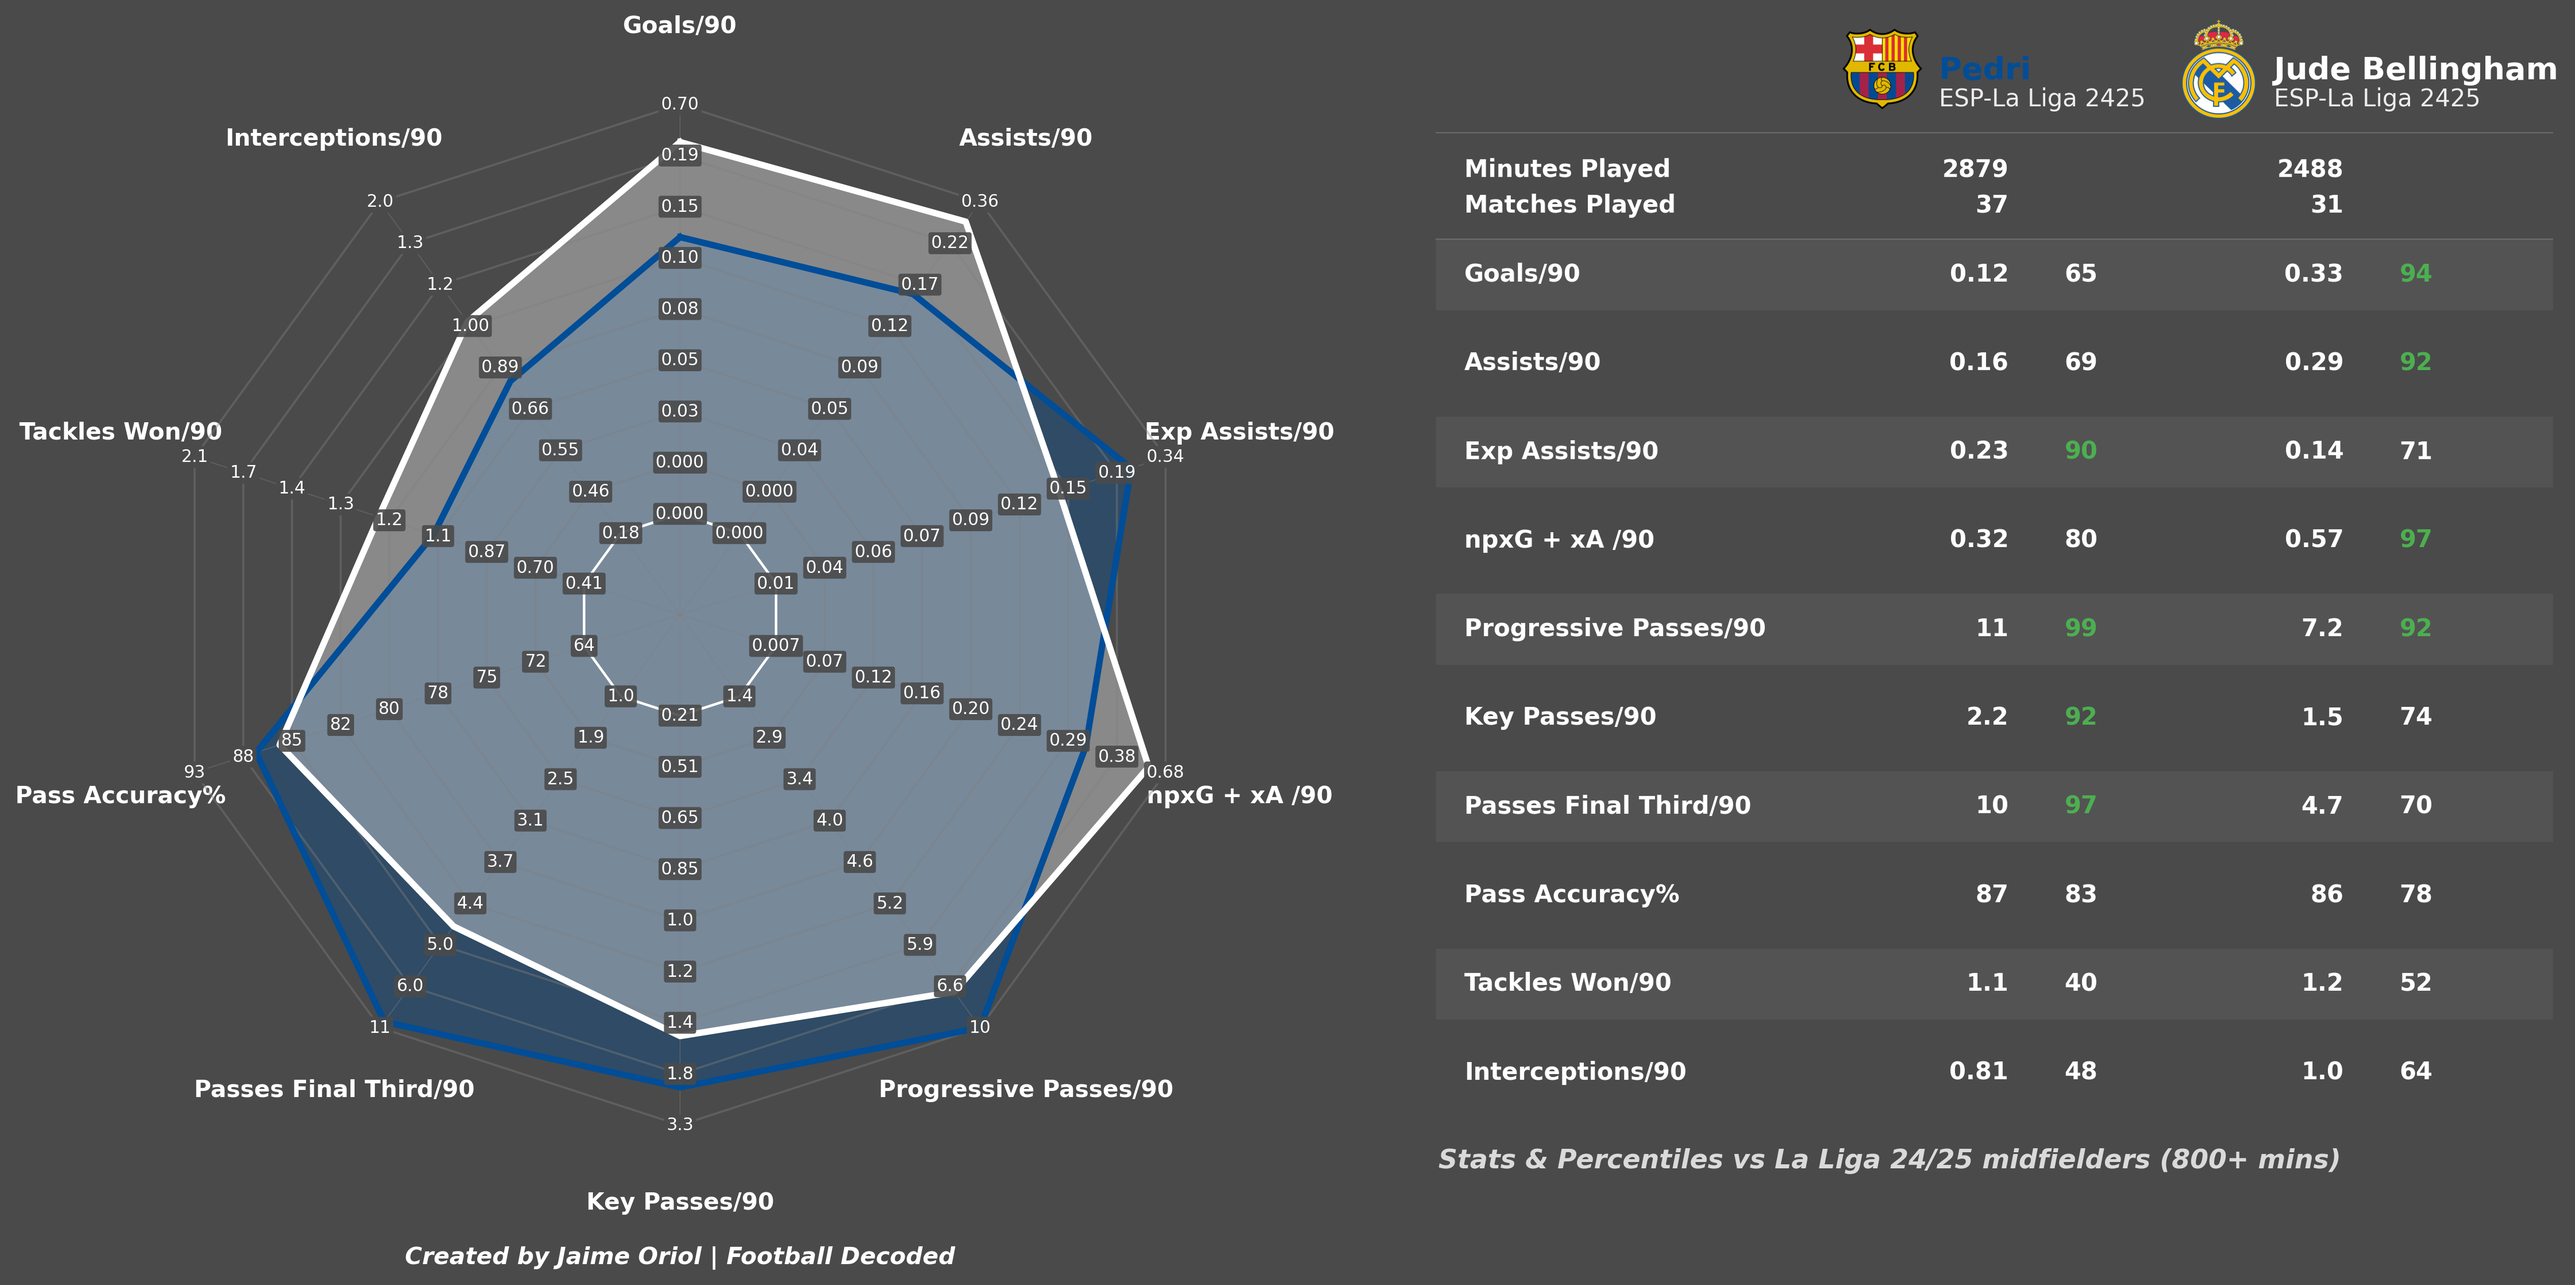
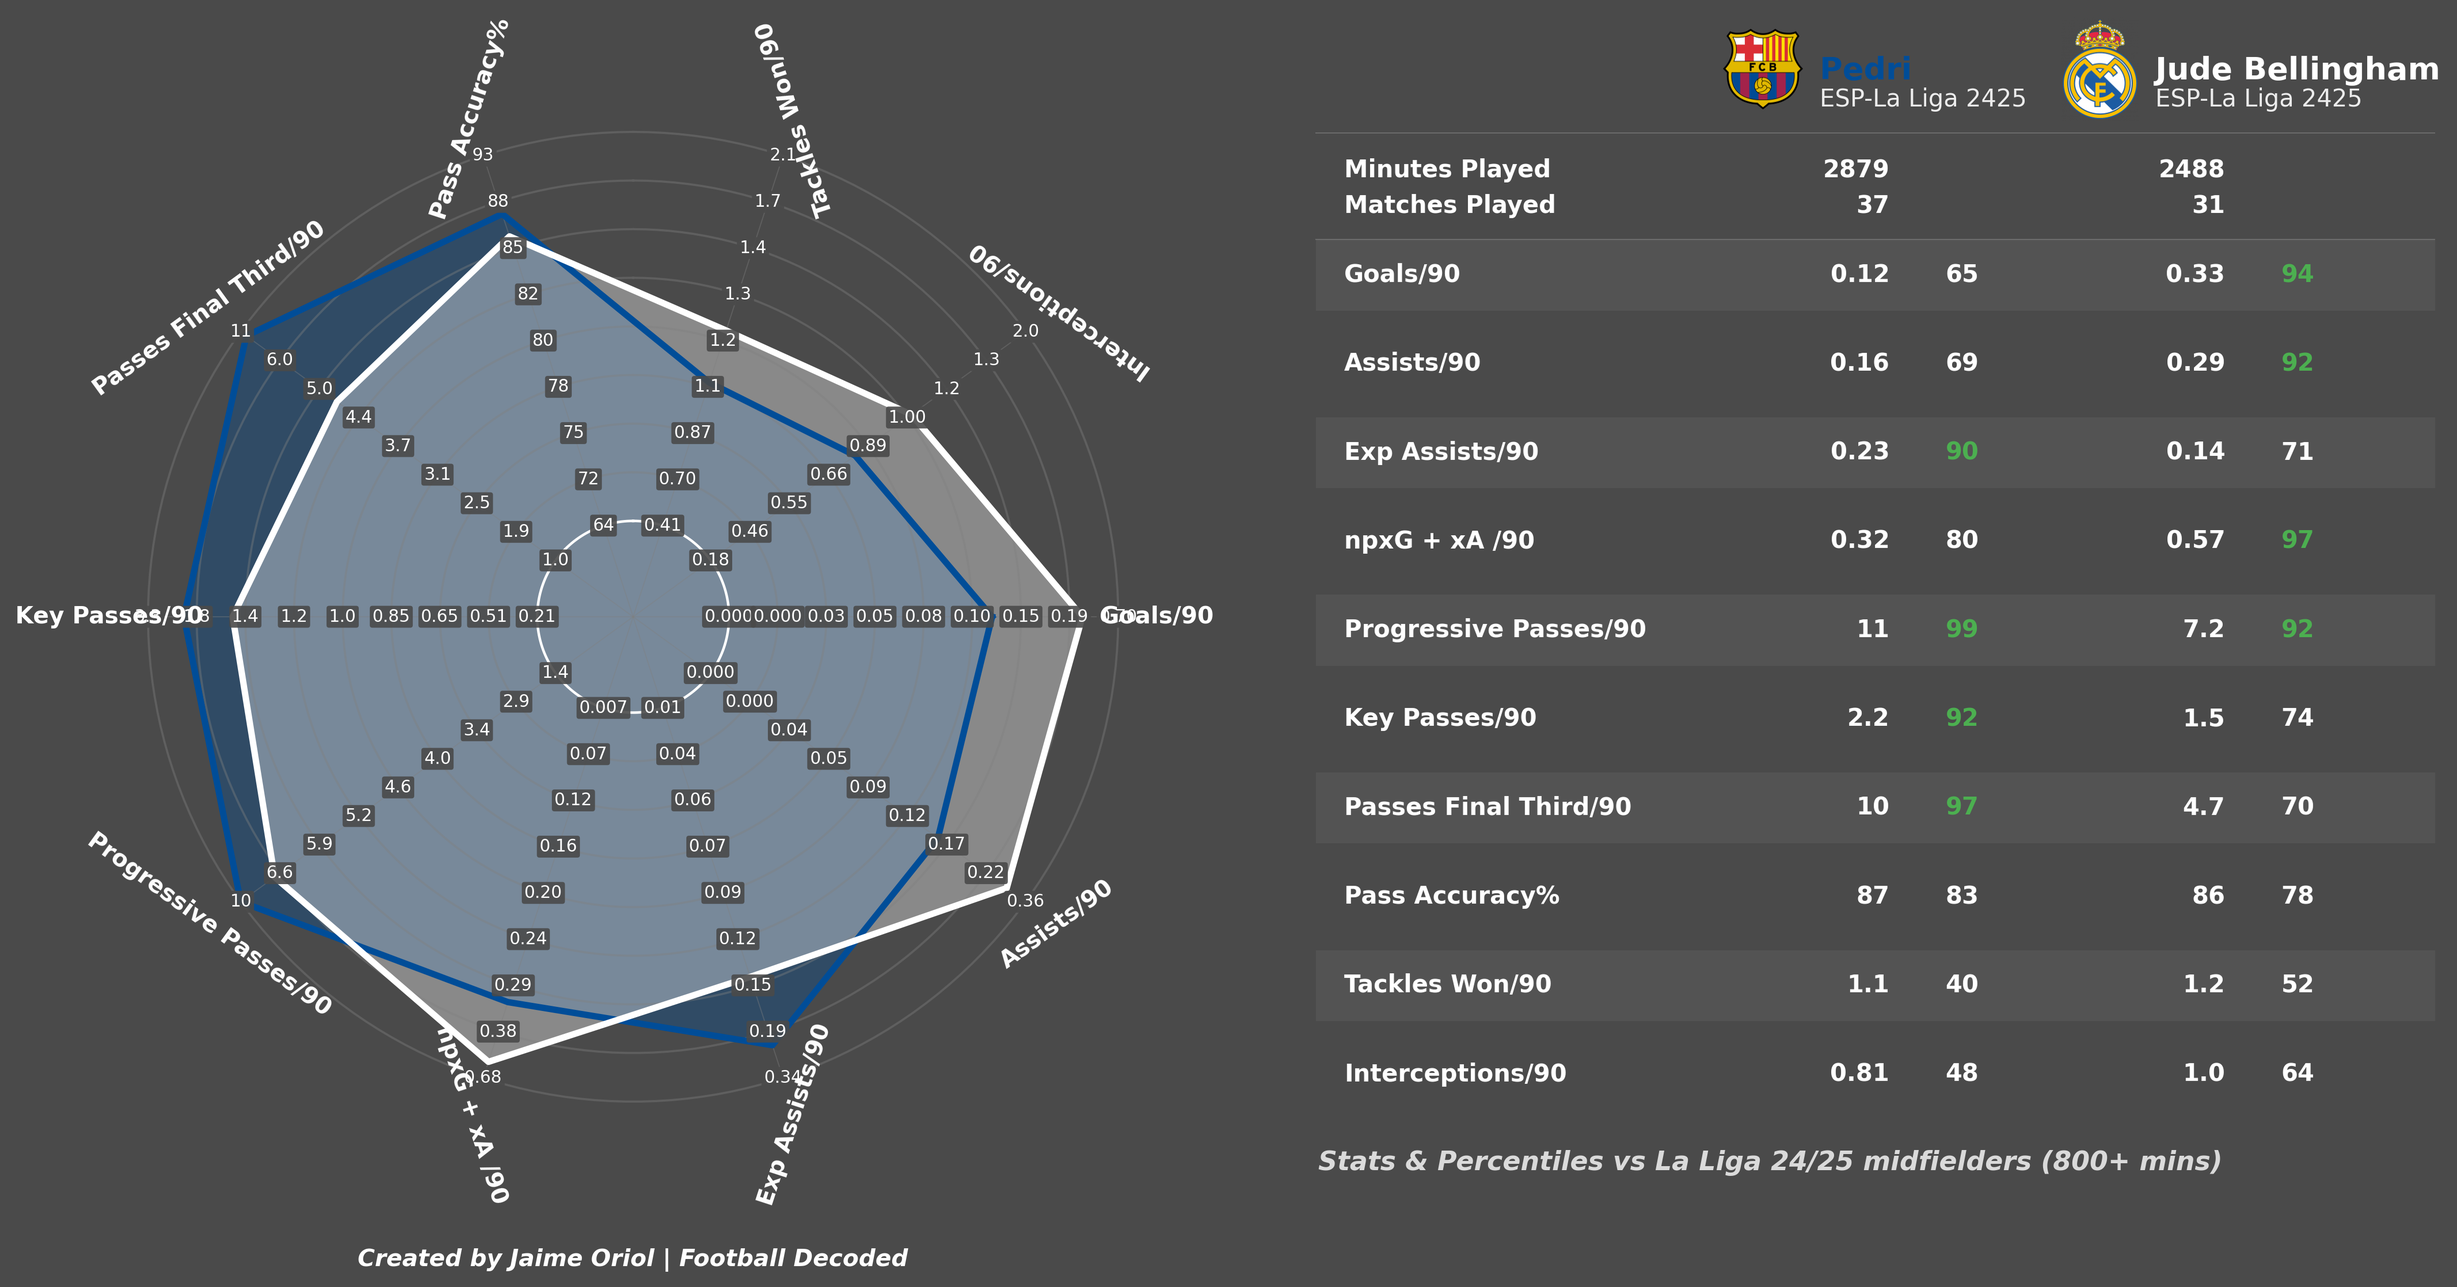
radra titles

diff --git a/viz/swarm_radar.py b/viz/swarm_radar.py
@@ -219,7 +219,6 @@ def _create_swarm_radar(df_data, player_1_data, player_2_data, metrics, metric_t
 def _create_traditional_radar(df_data, player_1_data, player_2_data, metrics, metric_titles,
                              colors, save_path, show_plot):
     
-    # MANTENER LA ALTURA ORIGINAL para alineación
     fig = plt.figure(figsize=(9, 10), facecolor=BACKGROUND_COLOR)
     
     percentile_levels = [1, 14, 26, 38, 50, 62, 74, 86, 99]
@@ -230,25 +229,30 @@ def _create_traditional_radar(df_data, player_1_data, player_2_data, metrics, me
         percentiles = np.percentile(metric_data, percentile_levels)
         percentile_values_all.append(percentiles)
     
-    # Mantener la posición original (no subir el radar)
     ax = fig.add_subplot(111, projection='polar', position=[0.09, 0.10, 0.82, 0.75])
     
     num_vars = len(metrics)
-    angles = np.linspace(0, 2 * np.pi, num_vars, endpoint=False).tolist()
-    angles += angles[:1]
+    angles = (np.linspace(0, 2 * np.pi, num_vars, endpoint=False) + np.pi/2).tolist()
+    angles += angles[:1]  # Cerrar el polígono
+    
+    # Para anillos circulares
+    angles_fine = np.linspace(0, 2 * np.pi, 200)
     
     ax.set_theta_offset(np.pi / 2)
     ax.set_theta_direction(-1)
     ax.set_facecolor(BACKGROUND_COLOR)
     
+    # Anillos circulares
     ring_positions = np.linspace(0.17, 0.86, 9)
     for i, pos in enumerate(ring_positions):
         color, alpha = ('white', 1.0) if i == 0 else ('grey', 0.4)
-        ax.plot(angles, [pos]*len(angles), color=color, linewidth=1.2 if i == 0 else 1, alpha=alpha)
+        ax.plot(angles_fine, [pos]*len(angles_fine), color=color, linewidth=1.2 if i == 0 else 1, alpha=alpha)
     
+    # Líneas radiales
     for angle in angles[:-1]:
         ax.plot([angle, angle], [0, 0.86], color='grey', linewidth=0.5, alpha=0.4)
     
+    # Valores en los anillos
     for metric_idx, percentiles in enumerate(percentile_values_all):
         angle = angles[metric_idx]
         
@@ -278,16 +282,19 @@ def _create_traditional_radar(df_data, player_1_data, player_2_data, metrics, me
         
         return ring_positions[-1]
     
+    # Datos del jugador 1 - LÍNEAS RECTAS
     player_1_positions = []
     for metric, percentiles in zip(metrics, percentile_values_all):
         val = player_1_data[metric]
         pos = get_percentile_position(val, percentiles)
         player_1_positions.append(pos)
-    player_1_positions += player_1_positions[:1]
+    player_1_positions += player_1_positions[:1]  # Cerrar el polígono
     
     if player_2_data is None:
+        # Solo un jugador - líneas rectas con colores alternados
         ax.plot(angles, player_1_positions, color=colors[0], linewidth=3.5)
         
+        # Llenar con colores alternados por sectores
         for i in range(len(angles) - 1):
             angle_slice = [angles[i], angles[i + 1]]
             values_slice = [player_1_positions[i], player_1_positions[i + 1]]
@@ -295,10 +302,11 @@ def _create_traditional_radar(df_data, player_1_data, player_2_data, metrics, me
             ax.fill(angle_slice + [0, 0], values_slice + [0, 0], 
                    color=colors[color_idx], alpha=0.45, edgecolor=colors[0], linewidth=1)
     else:
+        # Dos jugadores - líneas rectas
         ax.plot(angles, player_1_positions, color=colors[0], linewidth=3)
         ax.fill(angles, player_1_positions, color=colors[0], alpha=0.35)
-    
-    if player_2_data is not None:
+        
+        # Datos del jugador 2
         player_2_positions = []
         for metric, percentiles in zip(metrics, percentile_values_all):
             val = player_2_data[metric]
@@ -309,16 +317,25 @@ def _create_traditional_radar(df_data, player_1_data, player_2_data, metrics, me
         ax.plot(angles, player_2_positions, color=colors[1], linewidth=3)
         ax.fill(angles, player_2_positions, color=colors[1], alpha=0.35)
     
-    ax.set_xticks(angles[:-1])
-    ax.set_xticklabels(metric_titles, size=11, weight='bold', color='white')
-    ax.tick_params(axis='x', pad=1)
+    # Etiquetas con rotación correcta
+    label_padding = 1.08  # Distancia desde el anillo exterior
+    for angle, title in zip(angles[:-1], metric_titles):
+        # Calcular rotación del texto
+        text_rotation_delta = 90 if angle >= np.pi else -90
+        rotation = text_rotation_delta + np.rad2deg(angle)
+        
+        # Colocar texto con rotación
+        ax.text(angle, 0.86 * label_padding, title, 
+               ha='center', va='center', size=11, weight='bold', color='white',
+               rotation=rotation)
     
-    ax.set_ylim(0, 0.95)
+    ax.set_ylim(0, 1.0)
     ax.set_yticks([])
+    ax.set_xticks([])  # Quitar xticks por defecto
     ax.grid(False)
     ax.spines['polar'].set_visible(False)
     
-    # Footer con mayor tamaño y peso
+    # Footer
     fig.text(0.5, 0.05, "Created by Jaime Oriol | Football Decoded", 
              fontstyle="italic", ha="center", fontsize=11, color="white", weight='bold')
     
